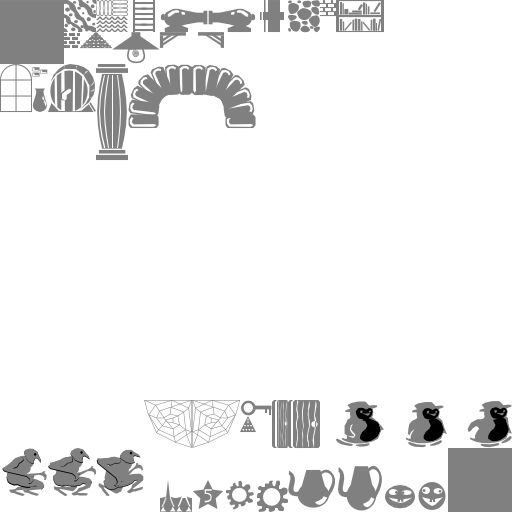
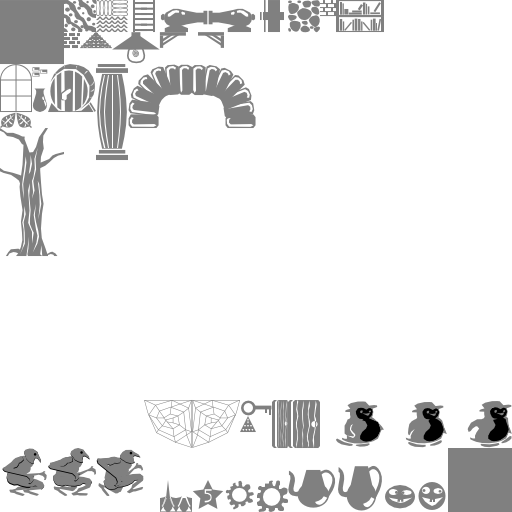
garden

Changed region(s): [[0.0, 0.2188, 0.125, 0.5]]

diff --git a/src/rooms.js b/src/rooms.js
@@ -6,10 +6,11 @@ var WORLD = {
     start: [null, "entryway", null, null],
     entryway: ["start", "drawing_room", null, null],
     drawing_room: ["entryway", "kitchen", null, "cellar"],
- 	kitchen: ["drawing_room", null, null, null],
+ 	kitchen: ["drawing_room", "garden", null, null],
  	cellar: [null, "tunnel", "drawing_room", null],
  	tunnel: ["cellar", "tunnel2", null, null],
  	tunnel2: ["tunnel", null, null, null],
+ 	garden: ["kitchen", null, null, null],
 };
 
 var DESCRIPTIONS = {
@@ -20,6 +21,7 @@ var DESCRIPTIONS = {
     cellar: "Down in the Cellar",
     tunnel: "An unused tunnel",
     tunnel2: "An unused tunnel",
+    garden: "A sunny garden",
 };
 
 // rooms cache

diff --git a/src/textures.js b/src/textures.js
@@ -91,6 +91,9 @@ var BLOCKS = [
     ["white", "web"],
     ["white", "web2"],
     ["turquoise_bright", "danger"],
+    ["white", "tree"],
+    ["green", "leaf"],
+    ["green_bright", "leaf2"],
 ];
 
 EXTRA_INFO = {
@@ -155,6 +158,9 @@ EXTRA_INFO = {
         decor: true
     },
     "web2": {
+        decor: true
+    },
+    "tree": {
         decor: true
     },
 };

diff --git a/src/game.js b/src/game.js
@@ -356,7 +356,7 @@ GameState.prototype.update_inventory = function() {
             this.create_block(x, y, "key", this.inventory, tint);
             var text = this.game.add.bitmapText(x + 35, y + 3, 'ermin', "" + count, 16);
             this.inventory.add(text);
-            x += 45;
+            x += 60;
         }
     }
 };
